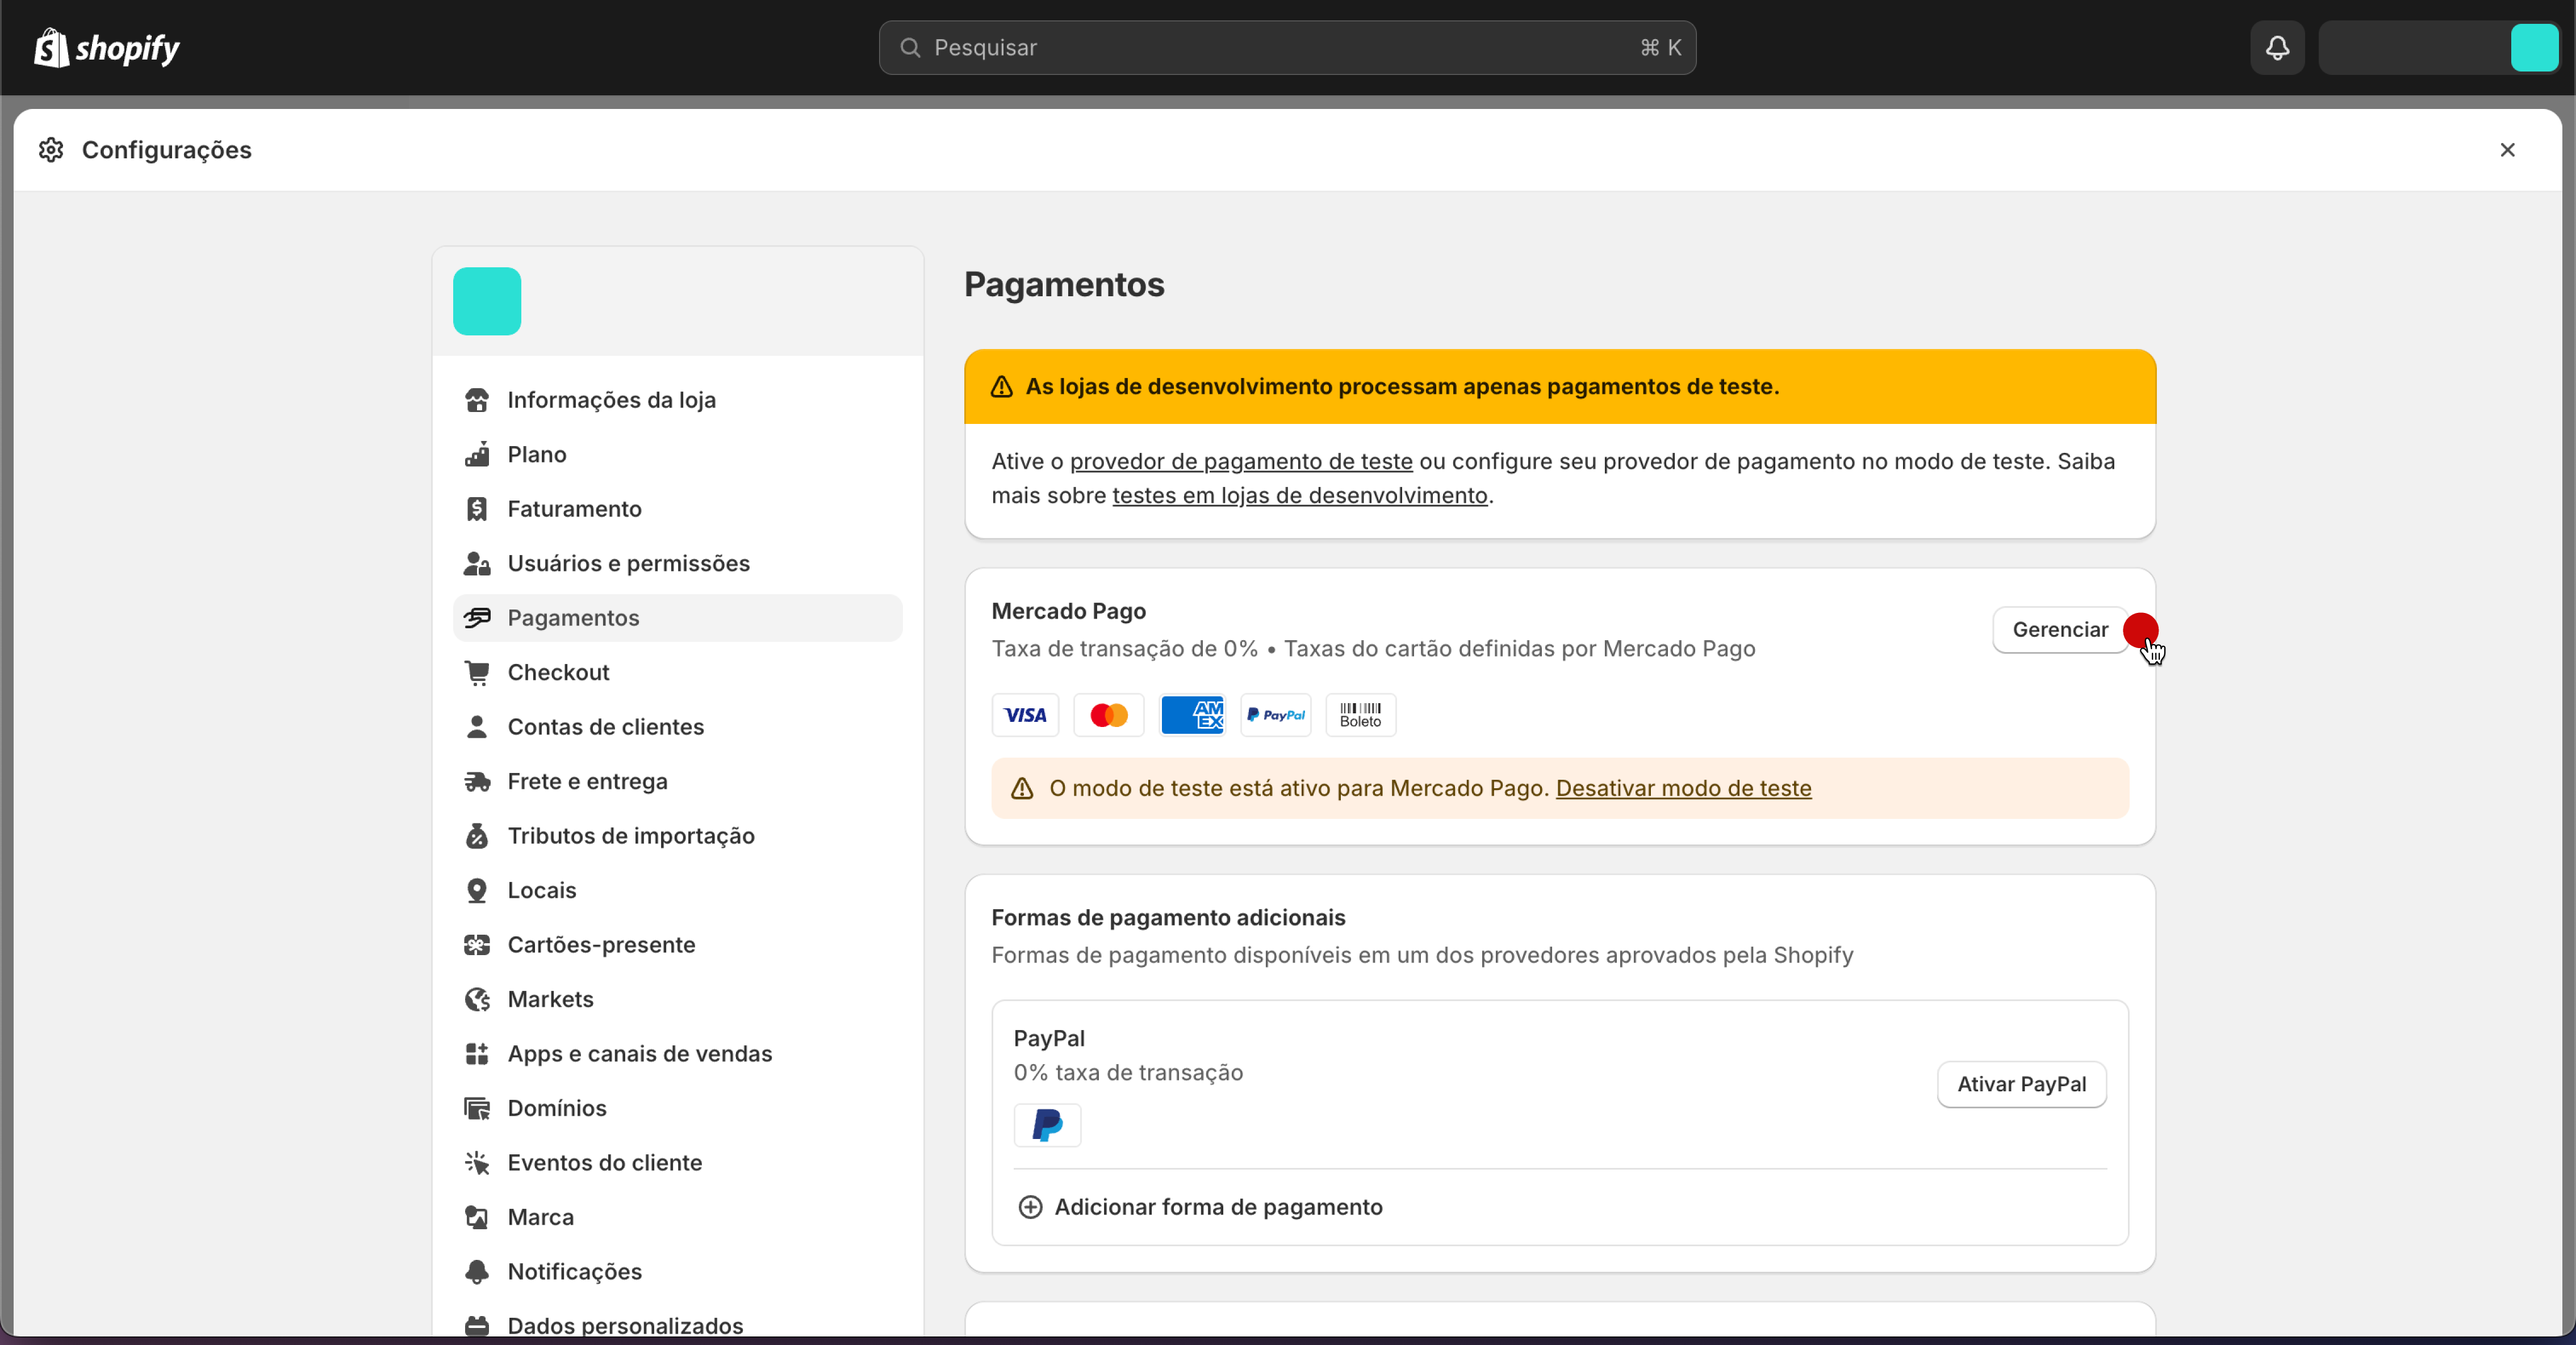
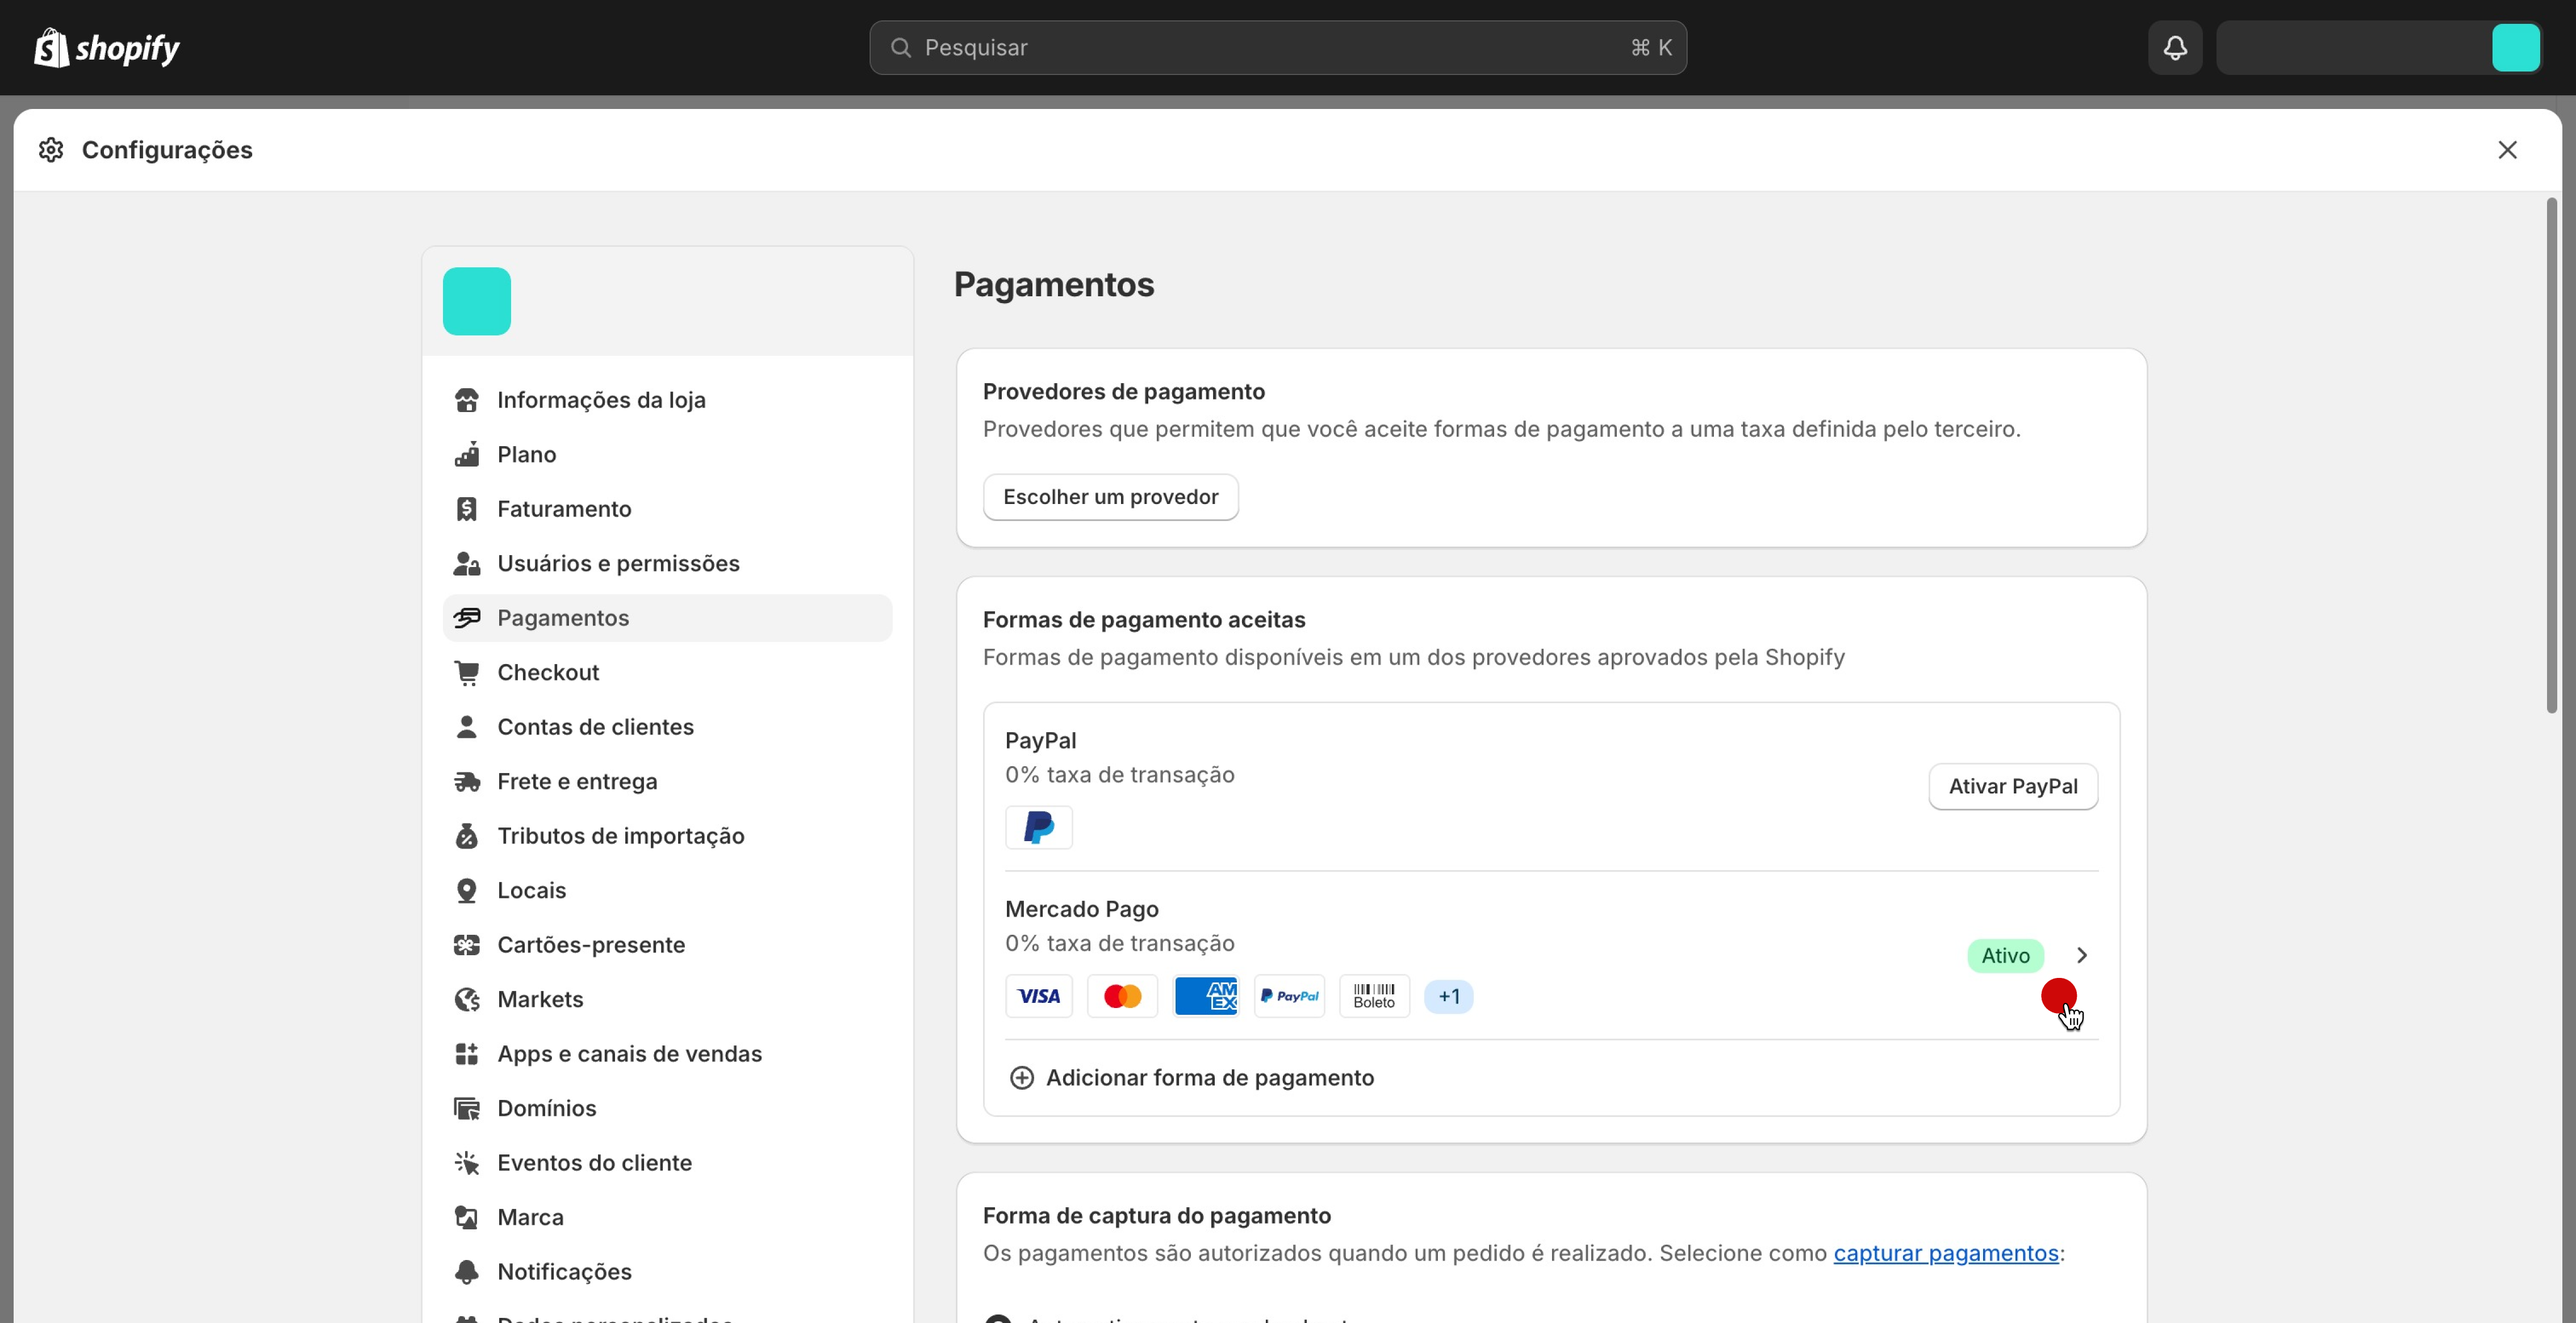
final2000

diff --git a/guides/shopify/how-tos-migrate-cho-api.es.md b/guides/shopify/how-tos-migrate-cho-api.es.md
@@ -126,8 +126,8 @@ Después de instalar la nueva versión, es necesario desinstalar la aplicación 
 2. En el panel administrativo de la tienda, localiza la aplicación con el nombre "Checkout Transparente MP" y haz clic en **Gestionar**.
 3. Haz clic en el **menú de opciones adicionales > Desinstalar** y luego en **Desinstalar** nuevamente.
 4. Regresa al panel administrativo de la tienda y haz clic en **Configuraciones > Pagos**.
-5. Localiza la antigua aplicación con el nombre "Mercado Pago" y haz clic en **Gestionar**.
-6. Por último, haz clic en **Desactivar** y luego en **Desinstalar**.
+5. En "Formas de pago aceptadas", localiza la antigua aplicación con el nombre "Mercado Pago" y selecciónala.
+6. Por último, haz clic en **Desactivar Mercado Pago** y luego en **Desactivar Mercado Pago**.
 
 > WARNING
 >

diff --git a/guides/shopify/how-tos-migrate-cho-api.en.md b/guides/shopify/how-tos-migrate-cho-api.en.md
@@ -92,8 +92,8 @@ After installing the new version, it is necessary to uninstall the old app. To u
 2. In the store's admin panel, locate the app named "Checkout Transparente MP" and click on **Manage**.
 3. Click on the **additional options menu > Uninstall** and then on **Uninstall** again.
 4. Return to the store's admin panel and click on **Settings > Payments**.
-5. Locate the old app named "Mercado Pago" and click on **Manage**.
-6. Finally, click on **Deactivate** and then on **Uninstall**.
+5. In "Accepted payment methods," locate the old app named "Mercado Pago" and select it.
+6. Finally, click on **Deactivate Mercado Pago** and then on **Deactivate Mercado Pago**.
 
 > WARNING
 >

diff --git a/guides/shopify/how-tos-migrate-cho-api.pt.md b/guides/shopify/how-tos-migrate-cho-api.pt.md
@@ -132,11 +132,11 @@ Após instalar a nova versão, é necessário desinstalar o antigo app. Para des
 
 ![uninstall app 3](/images/shopify/uninstall-app-3-pt.png)
 
-5. Localize o antigo app com o nome "Mercado Pago" e clique em **Gerenciar**.
+5. Em "Formas de pagamentos aceitas", localize o antigo app com o nome "Mercado Pago" e selecione-o.
 
 ![uninstall app 4](/images/shopify/uninstall-app-4-pt.png)
 
-6. Por fim, clique em **Desativar** > **Desativar**.
+6. Por fim, clique em **Desativar Mercado Pago** > **Desativar Mercado Pago**.
 
 ![uninstall app 5](/images/shopify/uninstall-app-5-pt.png)
 
